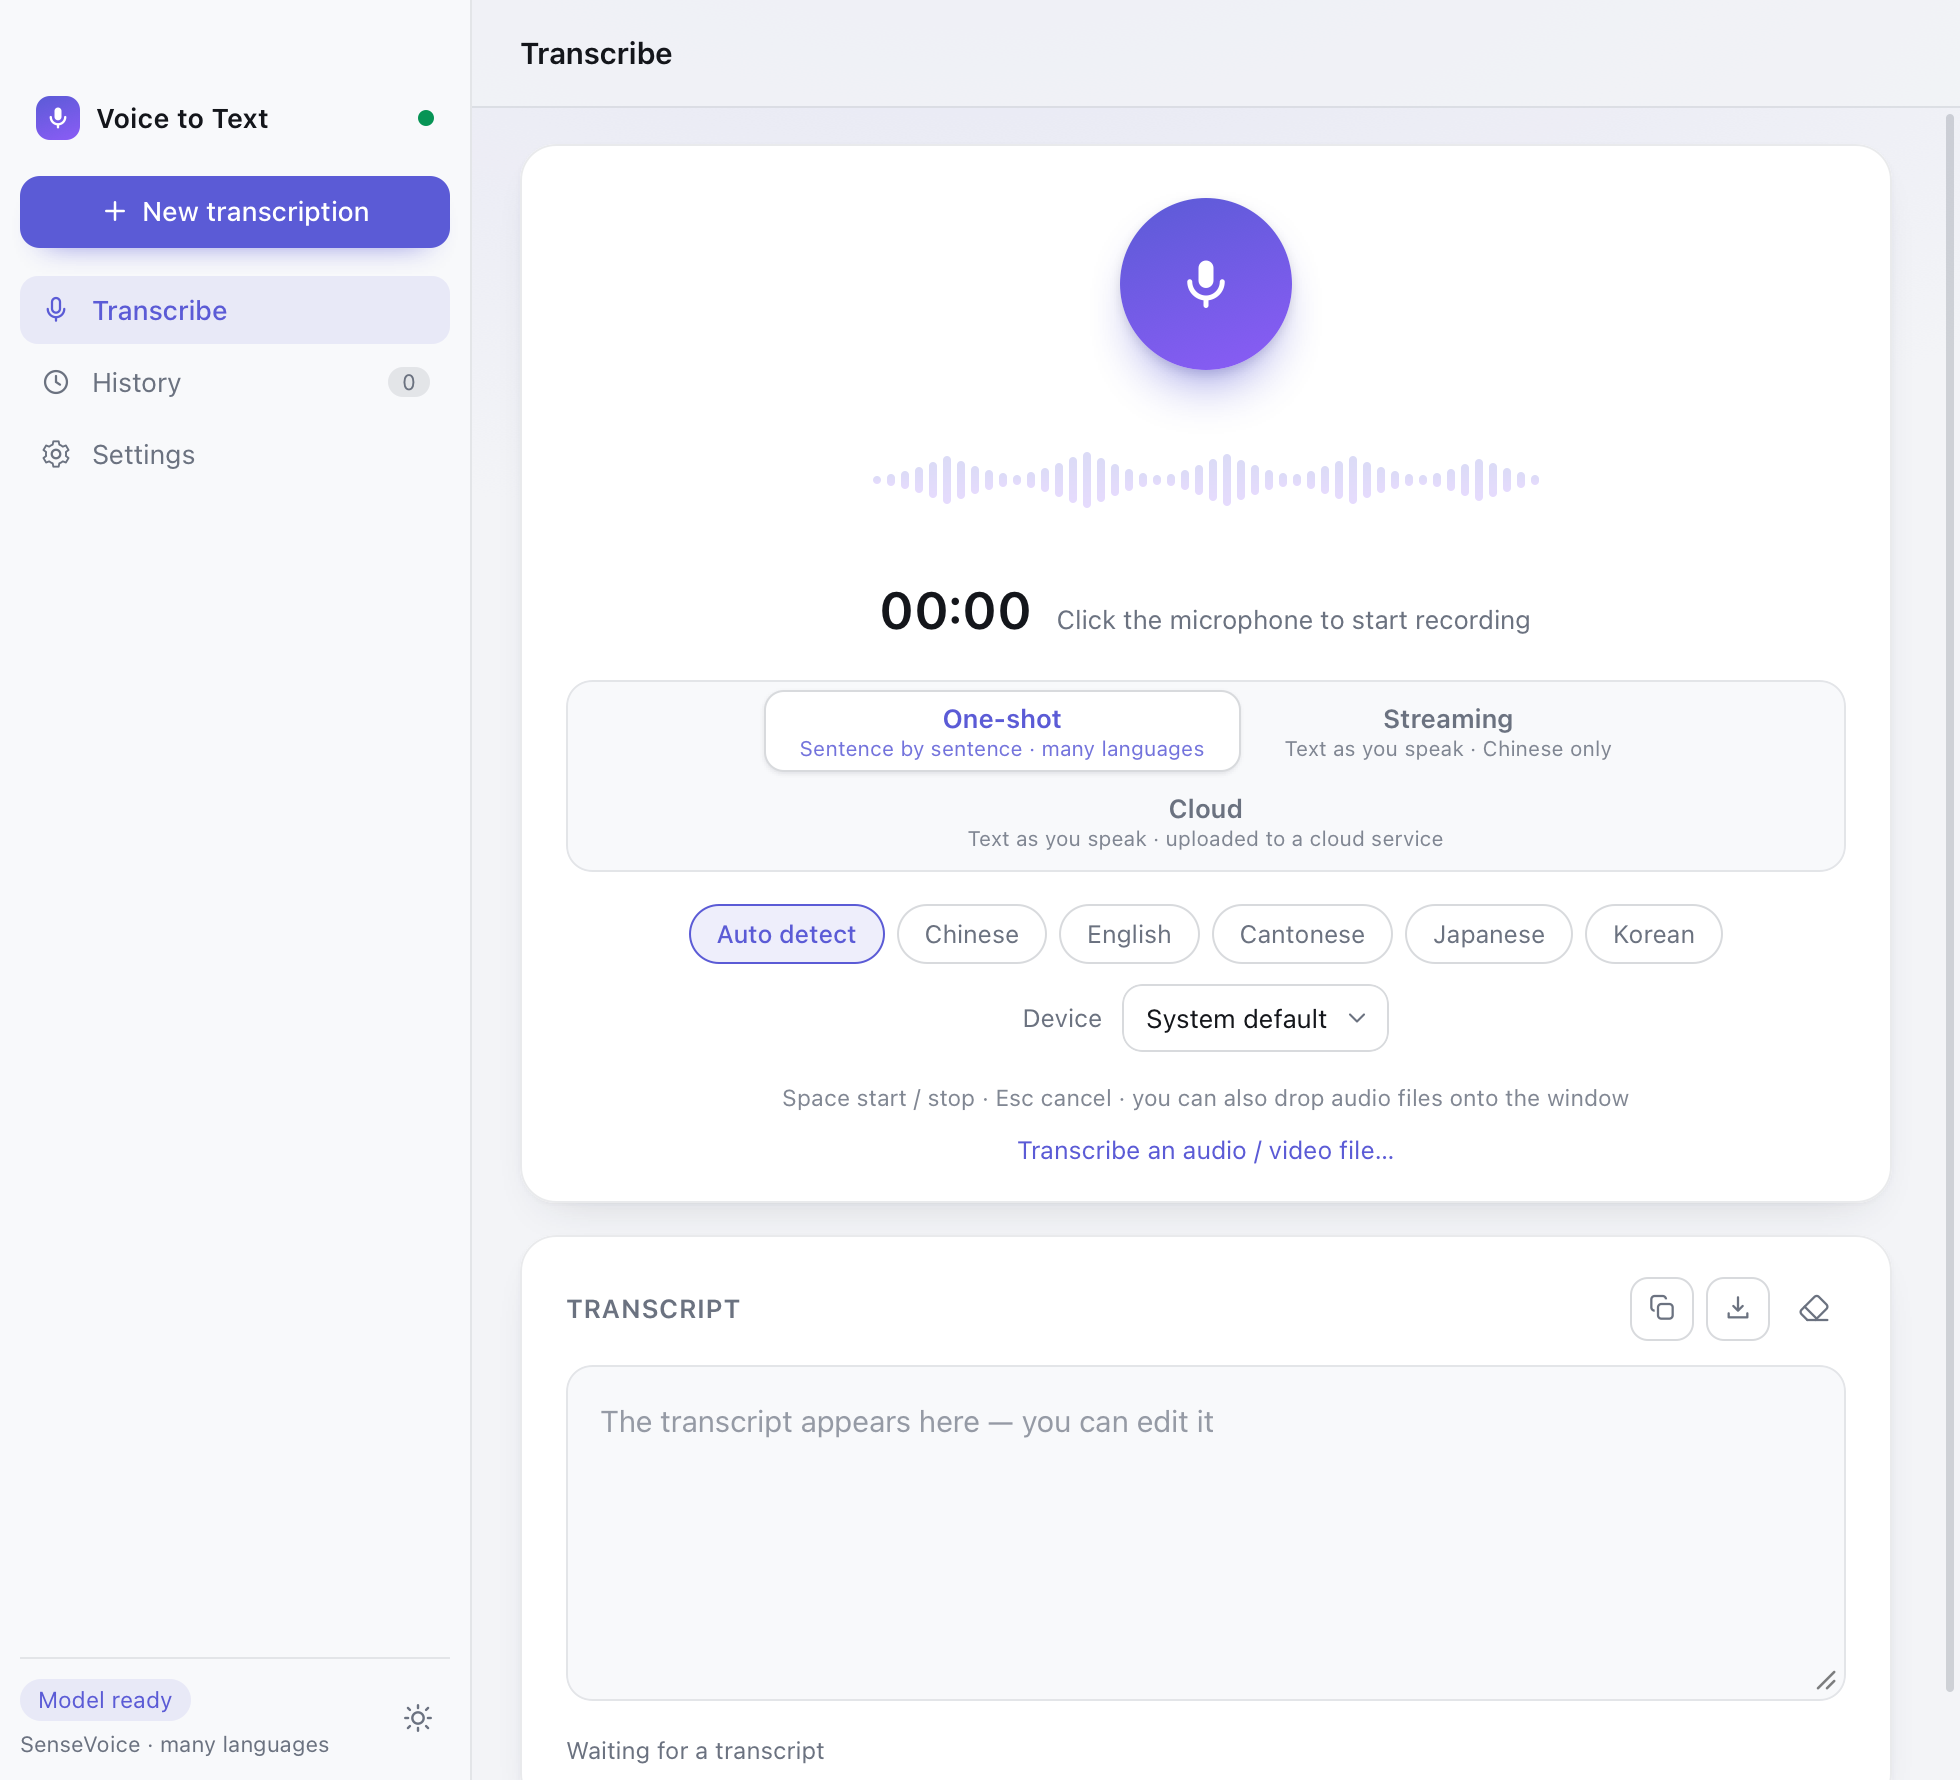
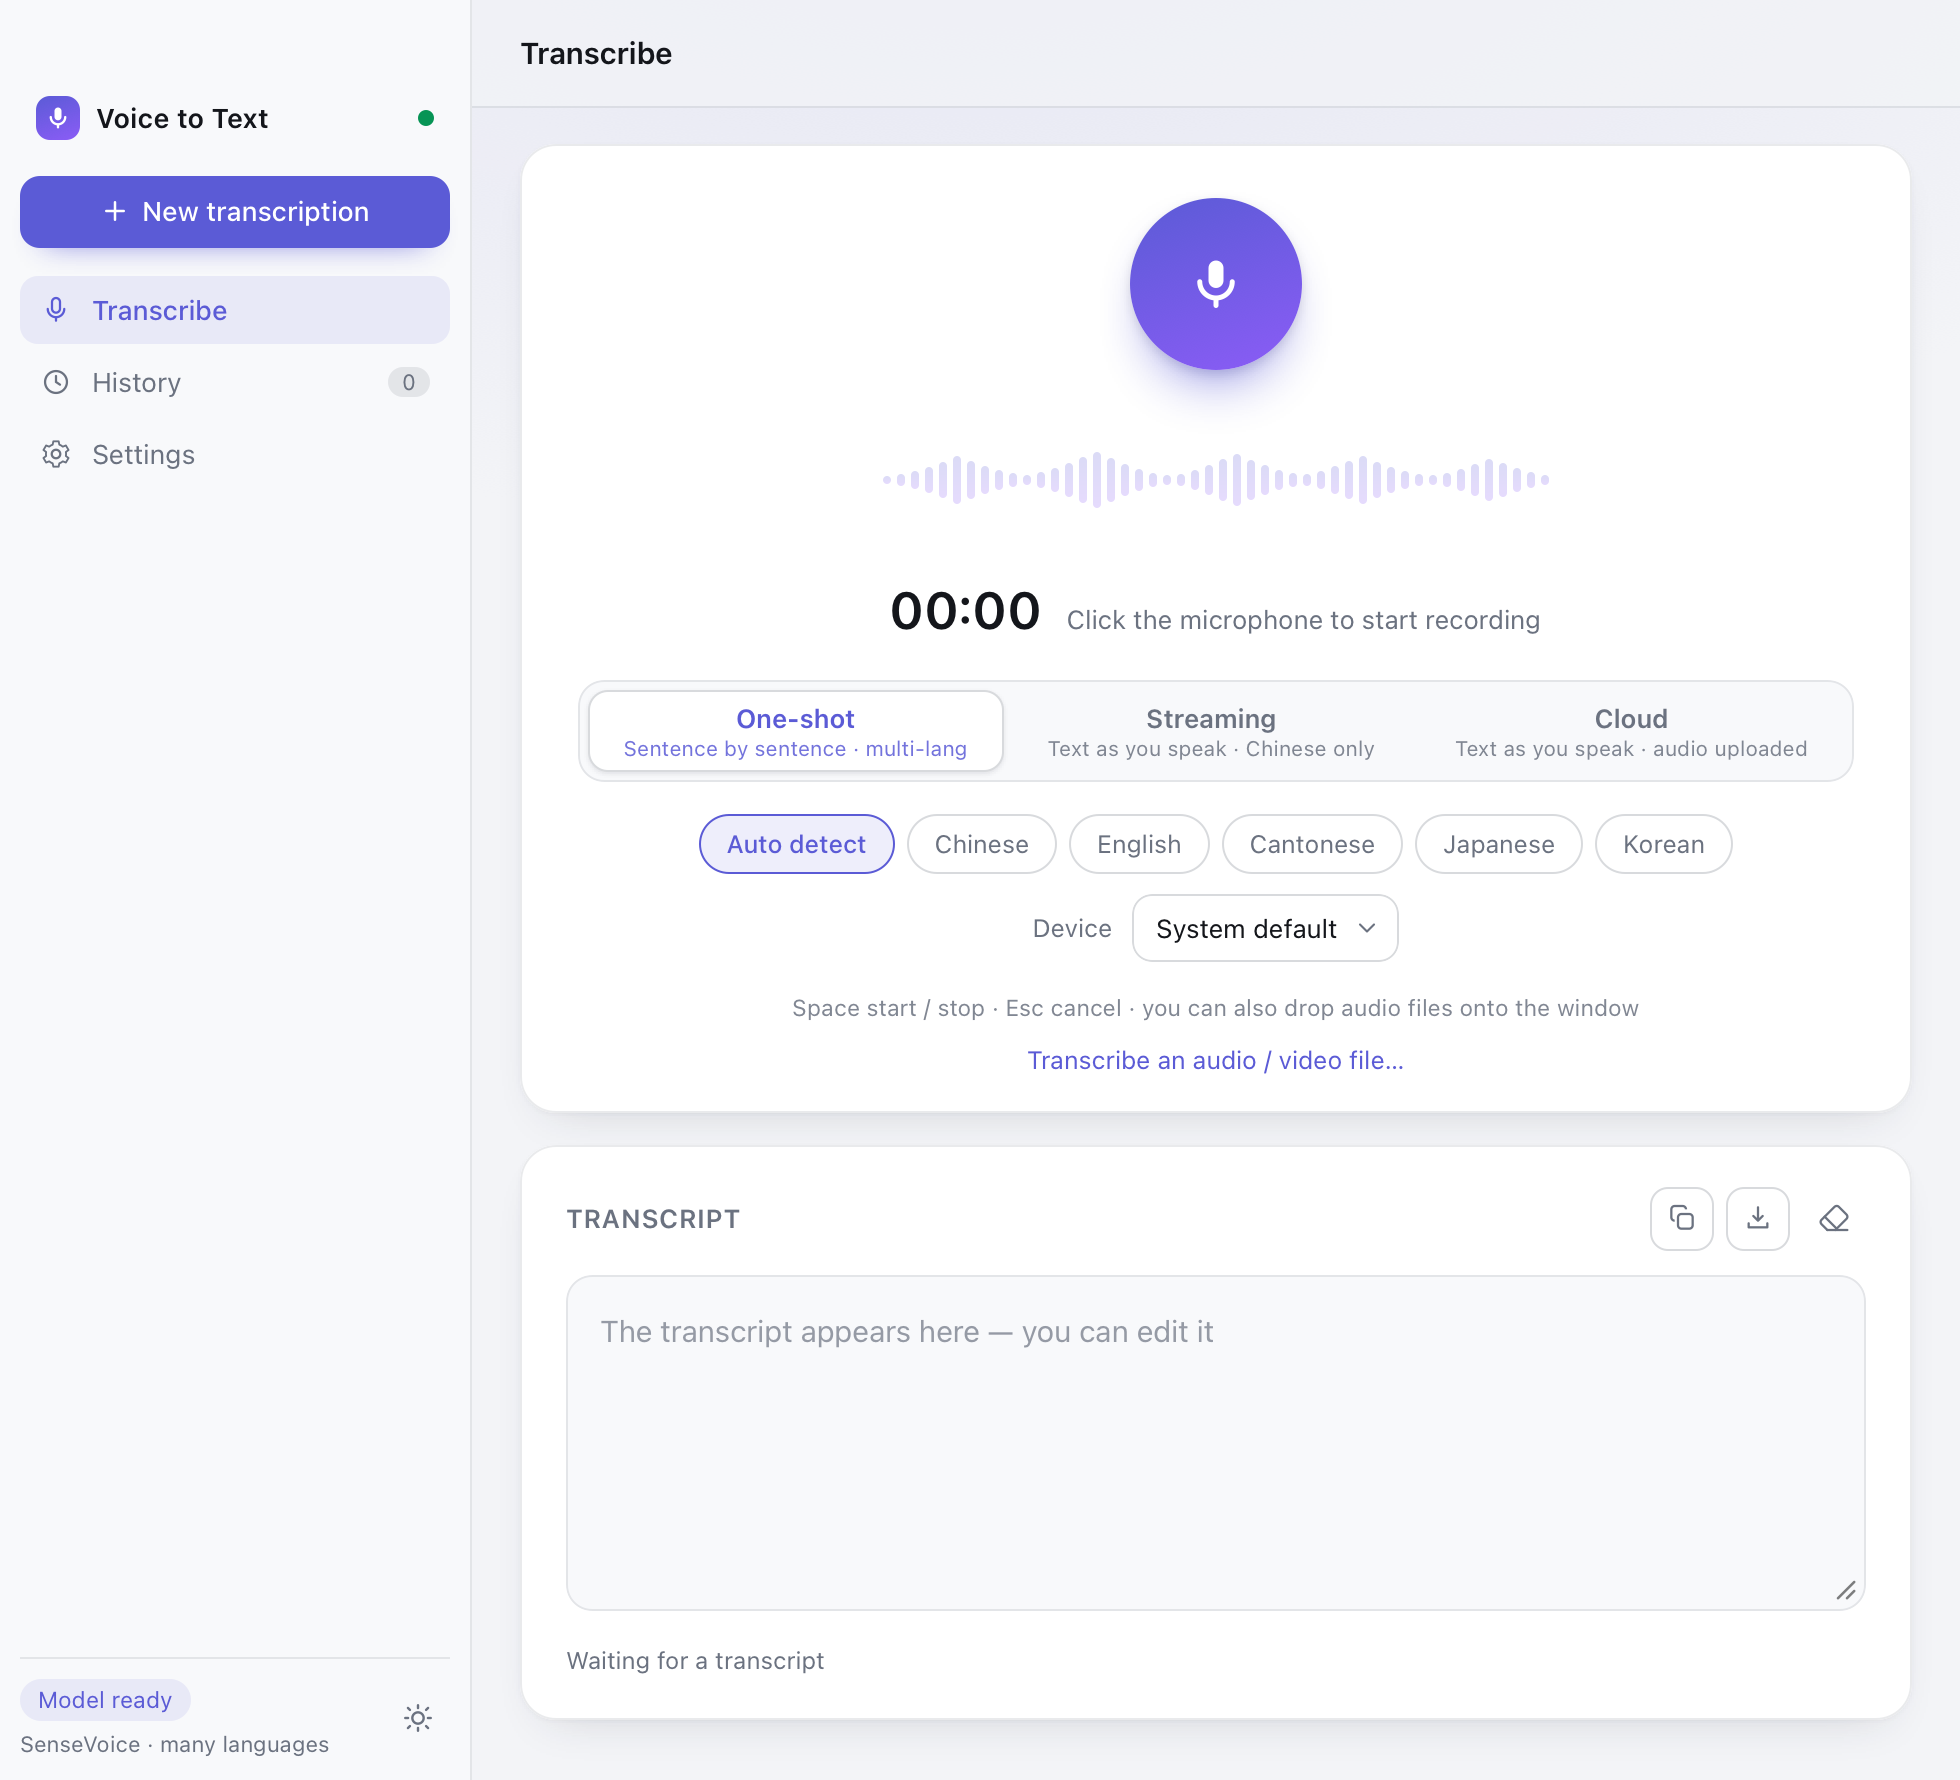
i18n: 模式副标题中英改短，英文排回一行
英文副标题太长时模式行会撑出卡片（中文看不出来）。把两条长的改短：

- offline: many languages → multi-lang
- cloud: uploaded to a cloud service → audio uploaded

中文云端改成「实时出字 · 音频上传」（与英文 audio uploaded 对应）。

界面检查再加一条断言：英文模式行必须排在一行（芯片顶部对齐）——
只断言「不溢出卡片」不够，换行虽然不溢出但不好看。

diff --git a/src/locales/en.js b/src/locales/en.js
@@ -86,7 +86,7 @@ window.I18N_LOCALES['en'] = {
 
   'mode.offline': 'One-shot',
   'mode.group': 'Transcription mode',
-  'mode.offlineDesc': 'Sentence by sentence · many languages',
+  'mode.offlineDesc': 'Sentence by sentence · multi-lang',
   'mode.streaming': 'Streaming',
   'mode.streamingDesc': 'Text as you speak · Chinese only',
   'mode.streamingDownload': 'Download streaming model',
@@ -98,7 +98,7 @@ window.I18N_LOCALES['en'] = {
   'mode.streamingDownloadFirst': 'Download the streaming model first',
   'mode.switchedBack': 'Streaming model only supports Chinese — switched back to one-shot',
   'mode.cloud': 'Cloud',
-  'mode.cloudDesc': 'Text as you speak · uploaded to a cloud service',
+  'mode.cloudDesc': 'Text as you speak · audio uploaded',
   'mode.cloudNeedConfig': 'Fill in the cloud service and its key in Settings first',
 
   'model.badge.streamingReady': 'Streaming model ready',

diff --git a/src/locales/zh-CN.js b/src/locales/zh-CN.js
@@ -95,7 +95,7 @@ window.I18N_LOCALES['zh-CN'] = {
   'mode.streamingDownloadFirst': '先下载流式模型再使用',
   'mode.switchedBack': '流式模型只支持中文，已切回整段模式',
   'mode.cloud': '云端',
-  'mode.cloudDesc': '实时出字 · 上传到云端',
+  'mode.cloudDesc': '实时出字 · 音频上传',
   'mode.cloudNeedConfig': '先在设置里填写云端服务与凭据',
 
   'model.badge.streamingReady': '流式模型已就绪',
